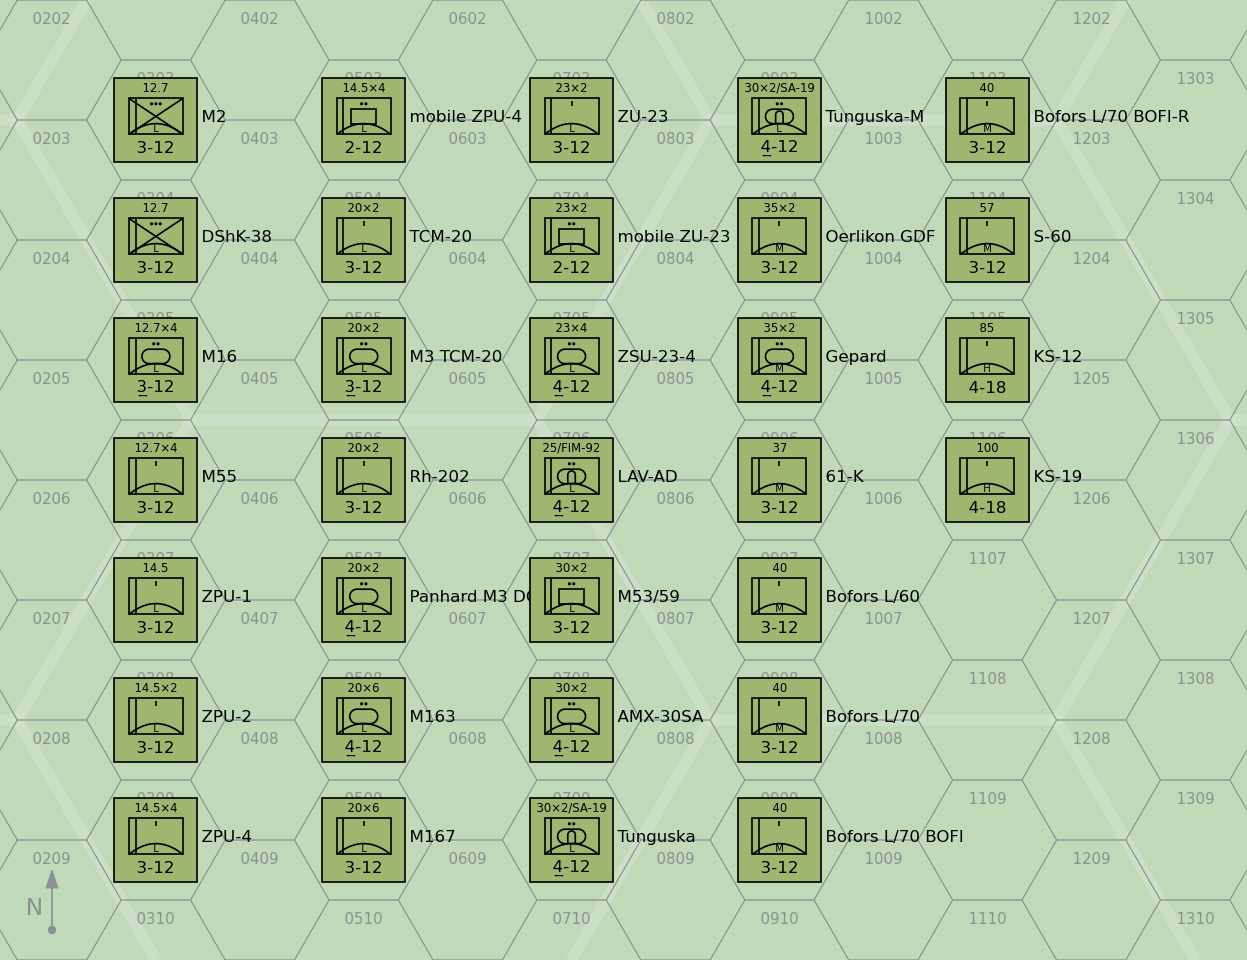
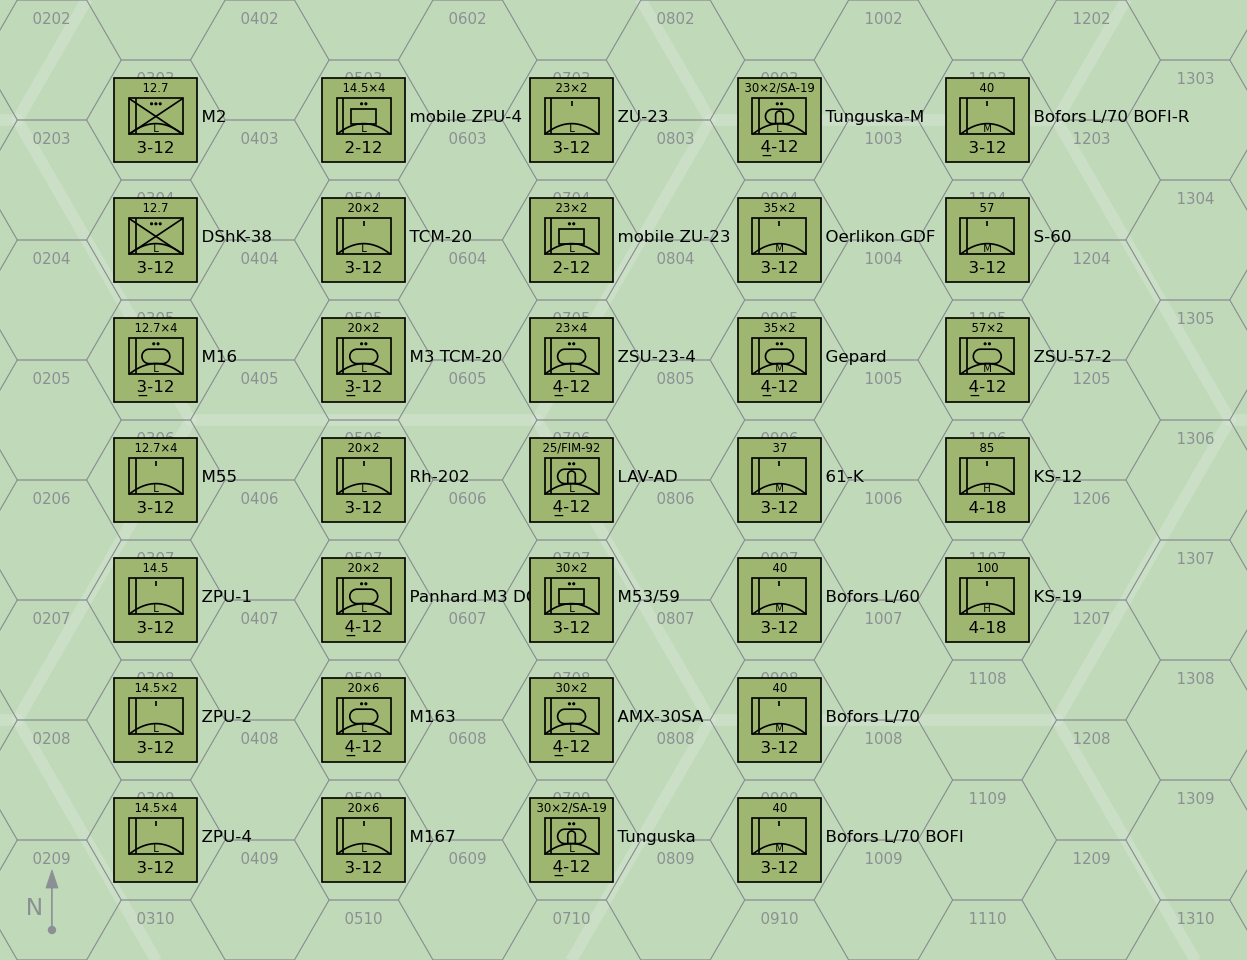
Add ZSU-57-2

Changed region(s): [[0.7314, 0.5625, 0.8532, 0.6875], [0.8228, 0.3438, 0.8837, 0.375]]

diff --git a/groundunitdatatables/groundunitdata.tex b/groundunitdatatables/groundunitdata.tex
@@ -227,6 +227,10 @@ It was exported to Soviet allies and saw extensive combat with Arab forces in th
 
 \paragraph{S-60 Battery.} The S-60 is a Soviet single 57 mm gun on an open mount on a towed carriage. It entered service in 1950 with Soviet forces as a replacement for the 61-K 37 mm gun. It was exported to many Soviet allies and saw combat with Arab forces in the 1967 and 1973 Arab-Israeli War, with communist forces in the Vietnam War, and with Iraqi forces in the Iran-Iraq War and the Gulf War. However, it was not used by communist forces in the Korean War. When paired with the SON-9 (Fire Can) radar, it was considered one of the more dangerous AAA systems faced by US aircraft in Vietnam.
 
+\paragraph{ZSU-57-2 Section.} This is a section of two ZSU-57-2 self-propelled AA guns, each with two 57 mm cannons in a lightly armored but open-topped turret on an armored and tracked hull. The cannons are similar to the S-60 cannons. The fire control system is optical.
+
+The ZSU-57-2 entered service in the Soviet Army in 1955 and replaced the BTR-40A and BTR-152A self-propelled 14.5 mm AA guns in the AA batteries of tank regiments. It was in turn replaced by the ZSU-23-4 from 1965. The ZSU-57-2 also served widely with Soviet allies and saw combat with Egypt and Syria in the 1967 and 1973 Wars, with Syria in the 1982 Lebanon War, with North Vietnam in the 1972 Easter Offensive and the 1975 Spring Offensive, and with various factions in the Yugoslav Wars in the 1990s.
+
 \subsection{Heavy AAA Units}
 
 \paragraph{KS-12 Battery.} The KS-12 (M1939 52-K) and the very similar KS-12A (M1944 KS-1) have a single 85 mm gun in an open mount on a towed carriage. It entered service with Soviet forces in 1939. After WW2, it began to be replaced in Soviet service by the KS-19 100 mm and KS-30 130 mm guns, but was widely used by Soviet allies and saw combat with communist forces in the Korean War and the Vietnam War. It is often paired with the SON-9 (Fire Can) radar.

diff --git a/groundunitdatatables/table-aaa-units.tex b/groundunitdatatables/table-aaa-units.tex
@@ -80,6 +80,7 @@ Bofors L/70 BOFI &\wbox[l]{Section}{Battery}&&\wbox[l]{0}{3}&\wbox{00}{12}&\wbox
 Bofors L/70 BOFI-R &\wbox[l]{Section}{Battery}&&\wbox[l]{0}{3}&\wbox{00}{12}&\wbox{00/00/0}{8/6/4}&40 mm&M&\wbox{00}{15}&\wbox{00}{4}&\wbox{00}{8}&\wbox{00}{12}&\wbox{00}{6}&\wbox{00}{6}&\wbox{00}{5}&\wbox{0}{4}&W/VF&---&---\\
 \addlinespace
 S-60 &\wbox[l]{Section}{Battery}&1950&\wbox[l]{0}{3}&\wbox{00}{12}&\wbox{00/00/0}{8/5/3}&57 mm&M&\wbox{00}{18}&\wbox{00}{5}&\wbox{00}{10}&\wbox{00}{15}&\wbox{00}{2}&\wbox{00}{2}&\wbox{00}{1}&\wbox{0}{5}&---&---&---\\
+ZSU-57-2 &\wbox[l]{Section}{Section}&1955&\wbox[l]{0}{\underline{4}}&\wbox{00}{12}&\wbox{00/00/0}{6/4/3}&\binarymultiply{57 mm}{2}&M&\wbox{00}{18}&\wbox{00}{5}&\wbox{00}{10}&\wbox{00}{15}&\wbox{00}{2}&\wbox{00}{1}&\wbox{00}{1}&\wbox{0}{5}&---&---&---\\
 \addlinespace
 KS-12 &\wbox[l]{Section}{Battery}&1939&\wbox[l]{0}{4}&\wbox{00}{18}&\wbox{00/00/0}{9/6/5}&85 mm&H&\wbox{00}{27}&\wbox{00}{6}&\wbox{00}{12}&\wbox{00}{18}&\wbox{00}{2}&\wbox{00}{1}&\wbox{00}{0}&\wbox{0}{6}&---&---&---\\
 \addlinespace

diff --git a/groundunitdatatables/table-ccu-and-ewr-units.tex b/groundunitdatatables/table-ccu-and-ewr-units.tex
@@ -29,7 +29,7 @@ Mobile EWR-A &\wbox[l]{Section}{Platoon}&\wbox[l]{0}{2}&\wbox{00}{12}&\wbox{0/0/
 Mobile EWR-B &\wbox[l]{Section}{Platoon}&\wbox[l]{0}{2}&\wbox{00}{12}&\wbox{0/0/0}{12/8/4}&\wbox[l]{D}{B}&\wbox[l]{MW}{LF}&\wbox[r]{}{--}\\
 Mobile CCU &\wbox[l]{Section}{Platoon}&\wbox[l]{0}{2}&\wbox{00}{12}&\wbox{0/0/0}{8/6/4}&\wbox[l]{D}{}&\wbox[l]{MW}{}&\wbox[r]{}{}\\
 Armored CCU &\wbox[l]{Section}{Squad}&\wbox[l]{0}{\underline{4}}&\wbox{00}{12}&\wbox{0/0/0}{8/\wbox[c]{0}{--}/\wbox[c]{0}{--}}&\wbox[l]{D}{}&\wbox[l]{MW}{}&\wbox[r]{}{}\\
-Armored CCU/EWR &\wbox[l]{Section}{Squad}&\wbox[l]{0}{\underline{4}}&\wbox{00}{12}&\wbox{0/0/0}{10/\wbox[c]{0}{--}/\wbox[c]{0}{--}}&\wbox[l]{D}{B}&\wbox[l]{MW}{LF}&\wbox[r]{}{8}\\
+Crotale CCU/EWR &\wbox[l]{Section}{Squad}&\wbox[l]{0}{\underline{4}}&\wbox{00}{12}&\wbox{0/0/0}{10/\wbox[c]{0}{--}/\wbox[c]{0}{--}}&\wbox[l]{D}{B}&\wbox[l]{MW}{LF}&\wbox[r]{}{8}\\
 \addlinespace
 \bottomrule
 \end{tabular}
